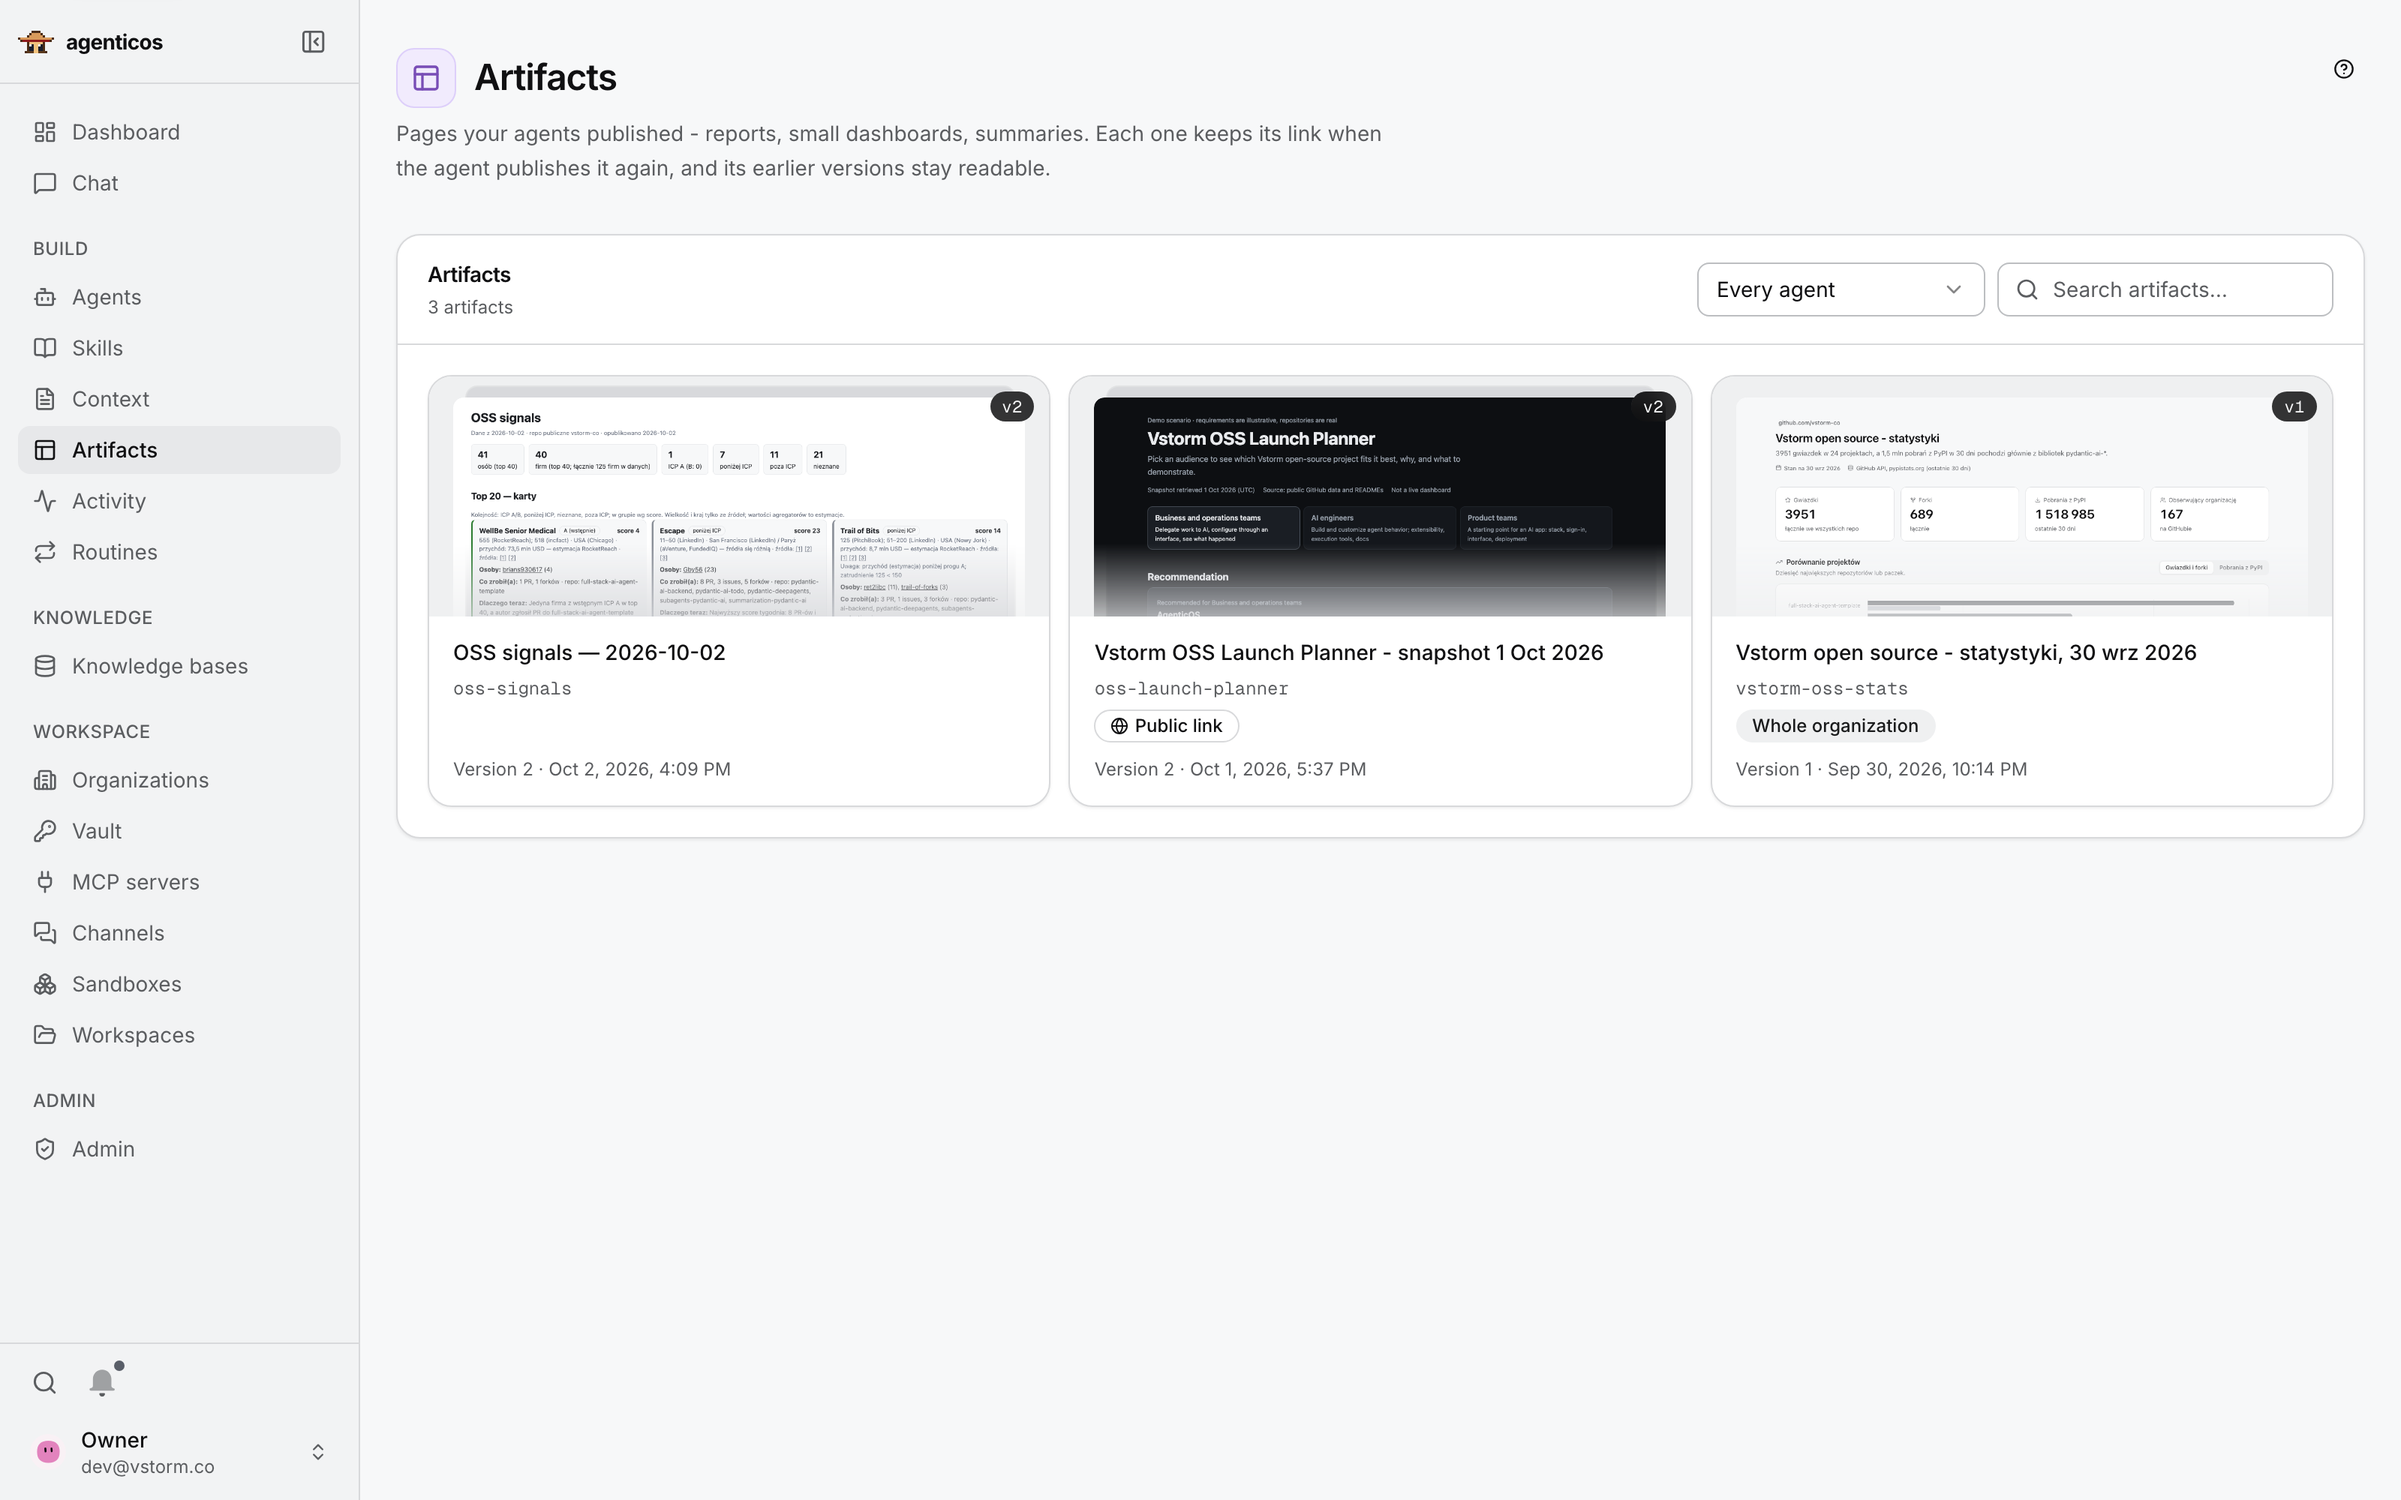
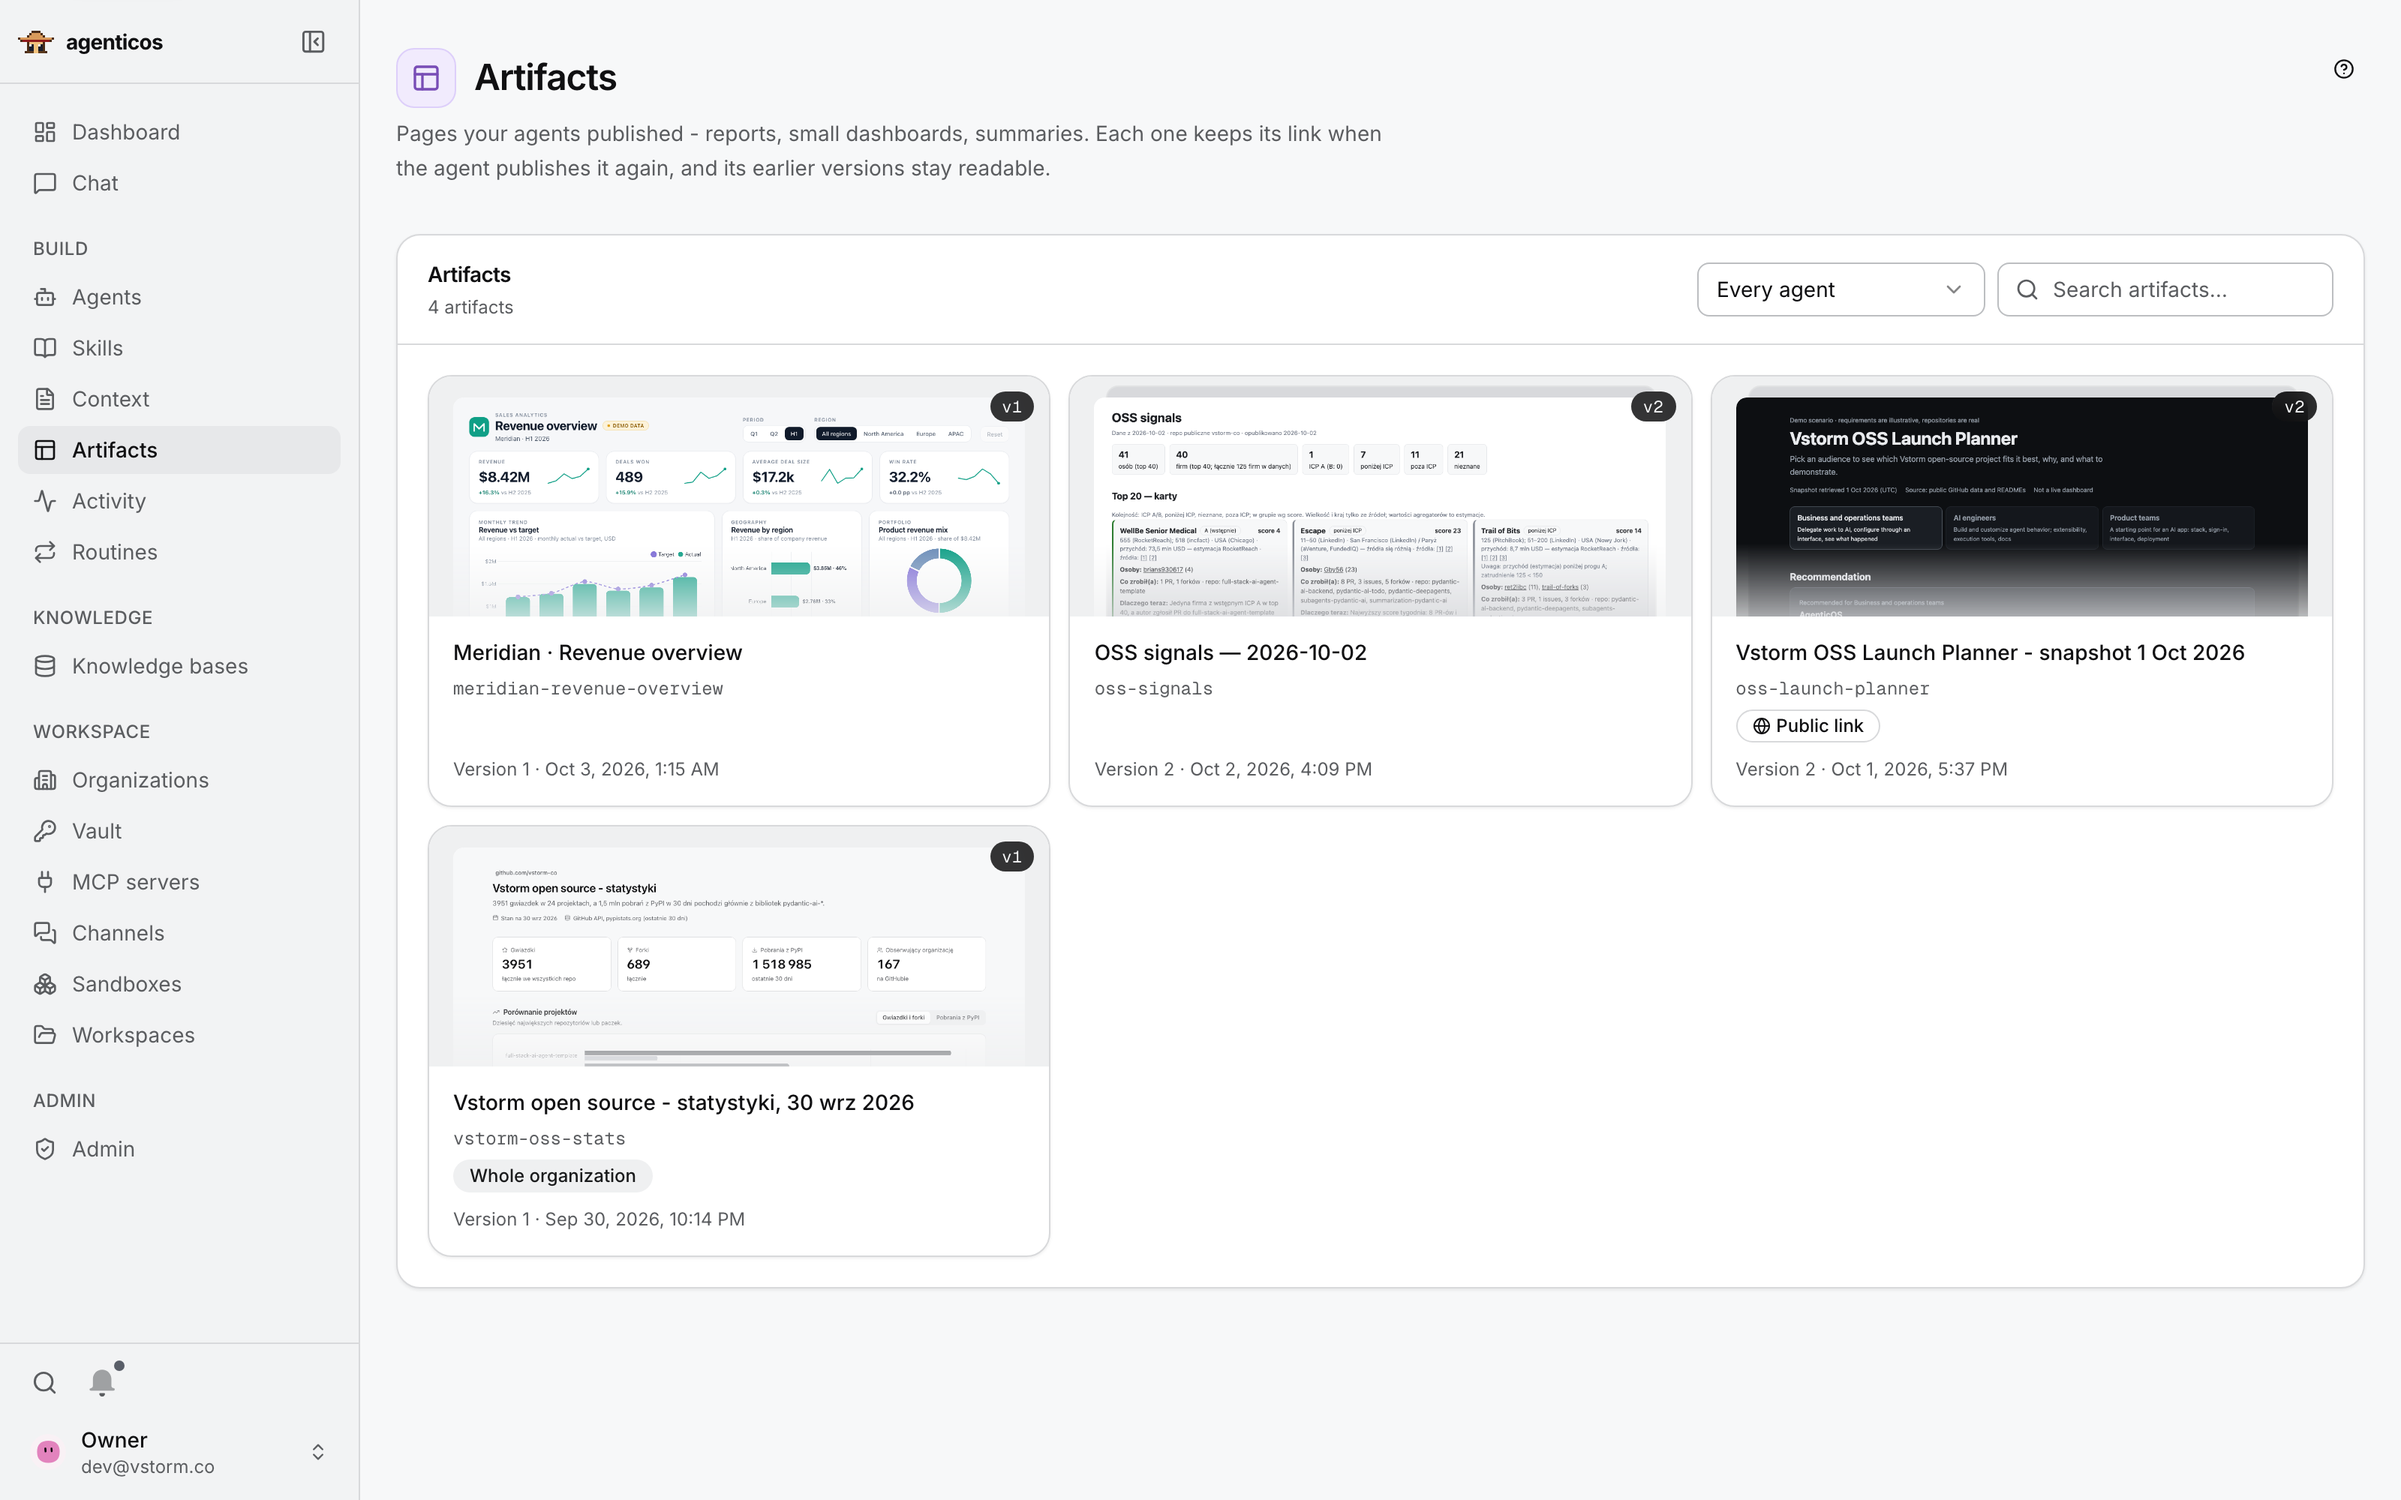
docs: feature a light sales dashboard artifact

diff --git a/docs/assets/screens/README.md b/docs/assets/screens/README.md
@@ -2,13 +2,14 @@
 
 ## Current README captures
 
-Captured from the authenticated AgenticOS test deployment on 2 October 2026 using
+Captured from the authenticated AgenticOS test deployment on 2 October 2026, with the artifact
+detail and library refreshed on 3 October 2026, using
 Chromium through Playwright. Every current README screenshot is a native **3200 × 2000
 PNG** from a **1600 × 1000 CSS-pixel viewport at device scale factor 2**. The application
 uses its light theme and expanded navigation. The organization-selection reminder is dismissed.
-The authored OSS Launch Planner retains its own dark styling.
+The featured artifact is now Meridian, a light-theme sales dashboard with clearly labeled demo data.
 
-The PNGs are lossless browser captures: no upscaling, recomposition, generated UI or text
+The PNGs are lossless browser captures: no upscaling, recomposition, image-generation edits or text
 replacement. All fourteen files are below the repository's 1 MiB per-file limit. Open the linked
 images in the README to inspect them at full resolution. `readme-captures.json` records paths,
 dimensions, byte sizes, hashes and capture states.
@@ -22,8 +23,8 @@ dimensions, byte sizes, hashes and capture states.
 | `skills.png` | Design, Engineering, Finance and Research selected; six matching skills |
 | `context-detail.png` | Existing Glossary open in Preview, enabled, linked for on-demand reading |
 | `knowledge-collection.png` | User-selected vstorm collection, completed document with parser and chunk count |
-| `artifact-detail.png` | Existing OSS Launch Planner v2; authored interactive page and sharing controls |
-| `artifacts.png` | Existing library with previews, versions and visibility |
+| `artifact-detail.png` | Meridian · Revenue overview v1; agent-generated light dashboard, H1 / All regions, private visibility |
+| `artifacts.png` | Refreshed library including Meridian, with previews, versions and visibility |
 | `dashboard.png` | Saved custom layout: blue Usage & cost section, compact summary, bars for run trends and wider outcomes widget |
 | `activity.png` | Existing last-30-days run history, statuses, tokens and recorded costs |
 | `groups.png` | New empty Engineering, Finance, Operations and Research groups, alongside the pre-existing test group |
@@ -33,8 +34,8 @@ dimensions, byte sizes, hashes and capture states.
 The dashboard layout and four example groups were saved through the application UI at the
 user's request. Group descriptions explain departmental uses; no members or resource grants
 were added. The chat composer selects Claude Code like for the next message. No message was
-sent, agent run started, agent specification published or access policy changed for these captures.
-The displayed metrics and results are existing test-deployment records, not a benchmark.
+sent, agent run started, agent specification published or access policy changed for the 2 October
+capture batch. Dashboard and Activity figures are existing test-deployment records, not a benchmark.
 
 Directory mappings were inspected but not configured. That empty view is described in README
 text rather than added as another screenshot. It maps external directory groups to an organization
@@ -42,6 +43,28 @@ role and optional local group at sign-in; it is not a department directory.
 
 Authentication state and temporary capture tooling stay outside the repository. No password,
 session token or browser storage is part of the media bundle.
+
+## Meridian artifact refresh — 3 October 2026
+
+At the user's request, the Claude Code like agent built and published a new private artifact,
+`meridian-revenue-overview`, titled **Meridian · Revenue overview**, version 1. It replaces the
+OSS Launch Planner screenshot in the artifact section; the separate integration recording is unchanged.
+
+- Conversation: `6f32affd-1845-4610-ac46-cdedf63438c9`.
+- Artifact: `b2b4c685-8075-4011-b6d6-1266b69cc79f` in the user-selected Vstorm organization.
+- Source: a supplied design brief requesting a light executive sales dashboard, deterministic
+  illustrative data, three charts, four KPI cards and functioning period/region filters.
+- Data: Meridian is fictional. Figures are generated demonstration data, not customer results or
+  a claim about AgenticOS revenue, performance or adoption. The page labels them visibly.
+- Implementation: a self-contained page using the deployment's bundled Chart.js. The agent
+  reported calculation and DOM checks; its sandbox had no browser, so browser checks were performed
+  separately against the published artifact.
+
+Verified all 12 period/region combinations in Chromium: trend and product-mix totals agree with
+corresponding regional totals, and Q1 + Q2 equals H1 for every region. Checked filter-driven KPI
+changes, Reset, a visible chart tooltip and mobile layout without horizontal page overflow.
+The final capture uses H1 / All regions at the same native PNG 2× settings as the other images.
+No image editing was used. Existing artifacts and their sharing settings were not changed.
 
 ## Earlier captures
 

diff --git a/README.es.md b/README.es.md
@@ -1,4 +1,4 @@
-<!-- source_sha: 3bf5cdf03c03 -->
+<!-- source_sha: d875ce03823f -->
 
 <div align="center">
 
@@ -149,10 +149,10 @@ Tus compañeros pueden usar un agente publicado en **chat web, Slack, Mattermost
 
 ### Publica resultados como páginas interactivas
 
-Los agentes pueden publicar informes, comparaciones interactivas y pequeños paneles como **artefactos**. Elige quién puede abrirlos; las actualizaciones conservan el mismo enlace y las versiones anteriores siguen disponibles. El ejemplo siguiente es OSS Launch Planner, creado a partir de un brief de Notion y una investigación en GitHub.
+Los agentes pueden publicar informes, comparaciones interactivas y pequeños paneles como **artefactos**. Elige quién puede abrirlos; las actualizaciones conservan el mismo enlace y las versiones anteriores siguen disponibles. El ejemplo siguiente es **Meridian**, un dashboard de ventas creado por un agente, con filtros funcionales de período y región y datos de demostración claramente identificados.
 
 <a href="docs/assets/screens/light/artifact-detail.png">
-  <img src="docs/assets/screens/light/artifact-detail.png" alt="Artefacto OSS Launch Planner con selección de audiencia, recomendaciones de proyectos y enlaces a fuentes." width="100%">
+  <img src="docs/assets/screens/light/artifact-detail.png" alt="Dashboard de ventas Meridian en tema claro con indicadores de ingresos, comparación con objetivos, gráficos regionales y de productos y filtros interactivos." width="100%">
 </a>
 
 [Compartir un artefacto](https://vstorm-co.github.io/agenticos/es/artifacts/).

diff --git a/README.pl.md b/README.pl.md
@@ -1,4 +1,4 @@
-<!-- source_sha: 3bf5cdf03c03 -->
+<!-- source_sha: d875ce03823f -->
 
 <div align="center">
 
@@ -149,10 +149,10 @@ Współpracownicy mogą korzystać z opublikowanego agenta w **czacie internetow
 
 ### Publikuj wyniki jako interaktywne strony
 
-Agenci mogą publikować raporty, interaktywne porównania i małe dashboardy jako **artefakty**. Wybierz, kto może je otwierać; aktualizacje zachowują ten sam link, a wcześniejsze wersje pozostają dostępne. Poniższy przykład to OSS Launch Planner, zbudowany na podstawie briefu z Notion i researchu na GitHubie.
+Agenci mogą publikować raporty, interaktywne porównania i małe dashboardy jako **artefakty**. Wybierz, kto może je otwierać; aktualizacje zachowują ten sam link, a wcześniejsze wersje pozostają dostępne. Poniższy przykład to **Meridian** — dashboard sprzedażowy zbudowany przez agenta, z działającymi filtrami okresu i regionu oraz wyraźnie oznaczonymi danymi demonstracyjnymi.
 
 <a href="docs/assets/screens/light/artifact-detail.png">
-  <img src="docs/assets/screens/light/artifact-detail.png" alt="Artefakt OSS Launch Planner z wyborem odbiorców, rekomendacjami projektów i linkami do źródeł." width="100%">
+  <img src="docs/assets/screens/light/artifact-detail.png" alt="Jasny dashboard sprzedażowy Meridian z KPI, porównaniem przychodów z celem, wykresami regionów i produktów oraz interaktywnymi filtrami." width="100%">
 </a>
 
 [Udostępnij artefakt](https://vstorm-co.github.io/agenticos/pl/artifacts/).

diff --git a/README.de.md b/README.de.md
@@ -1,4 +1,4 @@
-<!-- source_sha: 3bf5cdf03c03 -->
+<!-- source_sha: d875ce03823f -->
 
 <div align="center">
 
@@ -149,10 +149,10 @@ Kollegen können einen veröffentlichten Agenten über **Webchat, Slack, Matterm
 
 ### Ergebnisse als interaktive Seiten veröffentlichen
 
-Agenten können Berichte, interaktive Vergleiche und kleine Dashboards als **Artefakte** veröffentlichen. Wähle, wer sie öffnen darf; Aktualisierungen behalten denselben Link und frühere Versionen bleiben lesbar. Das Beispiel unten ist der OSS Launch Planner, erstellt aus einem Notion-Briefing und einer GitHub-Recherche.
+Agenten können Berichte, interaktive Vergleiche und kleine Dashboards als **Artefakte** veröffentlichen. Wähle, wer sie öffnen darf; Aktualisierungen behalten denselben Link und frühere Versionen bleiben lesbar. Das Beispiel unten ist **Meridian**, ein von einem Agenten erstelltes Vertriebsdashboard mit funktionierenden Filtern für Zeitraum und Region sowie klar gekennzeichneten Demodaten.
 
 <a href="docs/assets/screens/light/artifact-detail.png">
-  <img src="docs/assets/screens/light/artifact-detail.png" alt="OSS Launch Planner als Artefakt mit Zielgruppenauswahl, Projektempfehlungen und Quellenlinks." width="100%">
+  <img src="docs/assets/screens/light/artifact-detail.png" alt="Helles Meridian-Vertriebsdashboard mit Umsatzkennzahlen, Zielvergleich, Regional- und Produktdiagrammen sowie interaktiven Filtern." width="100%">
 </a>
 
 [Artefakt teilen](https://vstorm-co.github.io/agenticos/de/artifacts/).

diff --git a/README.md b/README.md
@@ -147,10 +147,10 @@ Colleagues can use a published agent in **web chat, Slack, Mattermost or Telegra
 
 ### Publish results as interactive pages
 
-Agents can publish reports, interactive comparisons and small dashboards as **artifacts**. Choose who can open them; updates keep the same link and earlier versions remain readable. The example below is the OSS Launch Planner, built from a Notion brief and GitHub research.
+Agents can publish reports, interactive comparisons and small dashboards as **artifacts**. Choose who can open them; updates keep the same link and earlier versions remain readable. The example below is **Meridian**, a sales dashboard built by an agent, with working period and region filters and clearly labeled demo data.
 
 <a href="docs/assets/screens/light/artifact-detail.png">
-  <img src="docs/assets/screens/light/artifact-detail.png" alt="OSS Launch Planner artifact with audience selection, project recommendations and source links." width="100%">
+  <img src="docs/assets/screens/light/artifact-detail.png" alt="Light-themed Meridian sales dashboard with revenue KPIs, target comparison, regional and product charts, and interactive filters." width="100%">
 </a>
 
 [Share an artifact](https://vstorm-co.github.io/agenticos/artifacts/).
